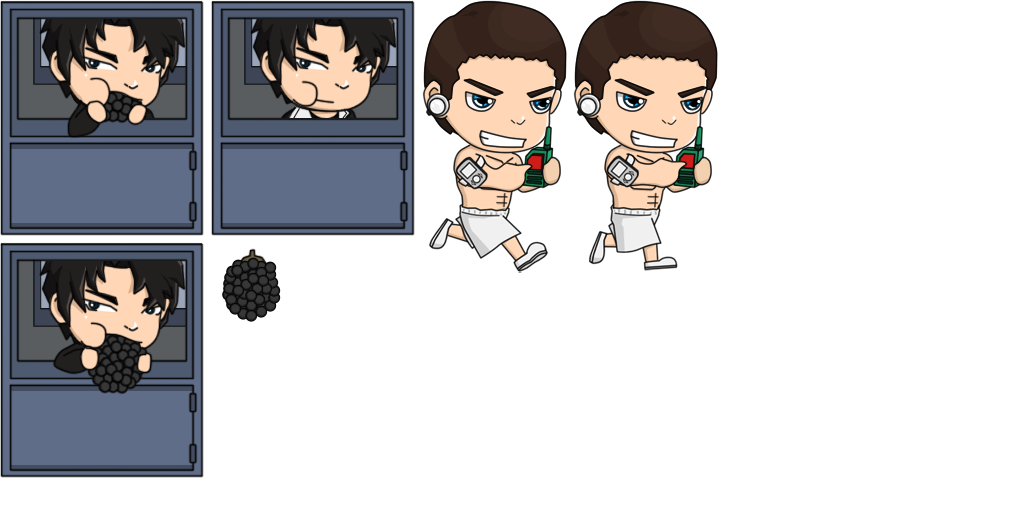
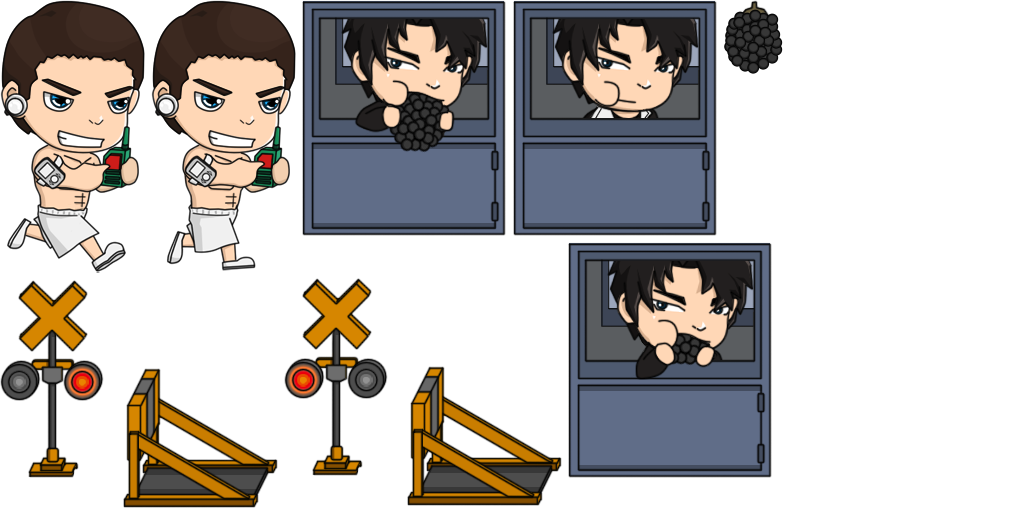
level 11: added bumper animation

diff --git a/Clay/Classes/Game/PlayerActions/PlayerActionPunch.m b/Clay/Classes/Game/PlayerActions/PlayerActionPunch.m
@@ -1,0 +1,174 @@
+//
+//  PlayerActionPunch.m
+//  Clay
+//
+//  Created by Brian Cable on 1/26/12.
+//  Copyright (c) 2012 Xecudev, LLC. All rights reserved.
+//
+
+#import "PlayerActionPunch.h"
+
+@implementation PlayerActionPunch
+/*
+#define kPlayerActionKickMoveX 20.0f
+#define kPlayerActionKickFullDuration 0.38f;
+#define kPlayerActionKickActiveWhileDurationLessThan 0.75f
+
+@implementation PlayerActionKick
+
+-(void) initialize
+{
+    [super initialize];
+    _kick = [Projectile projectileWithBehavior:PROJECTILE_BEHAVIOR_PLAYER_KICK];
+    if ([[UIScreen mainScreen] respondsToSelector:@selector(scale)] && [[UIScreen mainScreen] scale] == 2)
+    {
+        [_kick setBoundingBox:CGRectMake(0, 0, 35, 35)];
+    }
+    else
+    {
+        [_kick setBoundingBox:CGRectMake(0, 35, 35, 35)];
+    }
+    _cooldownStart = 0.6f;
+    _cooldown = 0.0f;
+    _canTrigger = true;
+    _level = [[LevelManager shared] currentLevel];
+}
+
+-(void)startAction
+{
+    if (!_inAction && _canTrigger) {
+        _duration = kPlayerActionKickFullDuration;
+        _madeFootProjectile = false;
+        [_parent endTurbo:false];
+        [_kick reset];
+        [_parent setPlayerAnimation:PLAYER_ANIM_KICK];
+        [[Camera sharedCamera] startShiftForwardForKick];
+    }
+    [super startAction];
+}
+
+-(void)update:(float)dt
+{
+    if (_inAction) {
+        if (_duration < kPlayerActionKickActiveWhileDurationLessThan) {
+            _isActive = true;
+            [_kick setActive:YES];
+            
+            [self updateBoundingBox];
+            
+            CGPoint position = [_parent getPosition];
+            
+            if ([[GameSettings shared] usingHighResolutionGraphics])
+            {
+                position.x += 10.0f;
+                position.y -= 5.0f;
+            }
+            else
+            {
+                position.x += 10.0f;
+                position.y += 33.0f;
+                
+            }
+            [_kick setPosition:position];
+            
+            if (!_madeFootProjectile) {
+                _madeFootProjectile = true;
+                [[_parent getSpeed] startKick];
+            }
+            
+            [self testKickCollisions];
+            
+        } else {
+            [_kick setActive:NO];
+            _isActive = false;
+        }
+    }
+    [super update:dt];
+}
+
+-(void)updateBoundingBox
+{
+    int startX = 0;
+    int projWidth = 35;
+    
+    int frame = [[[_parent getSprite] getAnimation] getCurrentFrameNumber];
+    switch (frame) {
+        case 1:
+            startX = 55;
+            projWidth = 25;
+            break;
+        case 2:
+            startX = 30;
+            projWidth = 35;
+            break;
+        case 3:
+            startX = 0;
+            projWidth = 45;
+            break;
+        default:
+            projWidth = 0;
+            break;
+    }
+    
+    if ([[GameSettings shared] usingHighResolutionGraphics])
+    {
+        [_kick setBoundingBox:CGRectMake(startX, 0, projWidth, 35)];
+    }
+    else
+    {
+        [_kick setBoundingBox:CGRectMake(startX, 35, projWidth, 35)];
+    }
+    
+}
+
+-(void)testKickCollisions
+{
+    NSMutableArray *obstacles = [[[LevelManager shared] currentLevel] getActiveGameObjectList];
+    for (GameObject *object in obstacles) {
+        if([object getCurrentCollisionBehavior] == COLLISION_BEHAVIOR_HEN_STATIC)
+        {
+            if([_level testCollisionWithGameObject:object Source:_kick])
+            {
+                [object special_kickHen];
+                [self setKilledEnemy:YES];
+            }
+        }
+    }
+}
+
+-(void)cancelAction
+{
+    [_parent setPlayerAnimation:PLAYER_ANIM_RUNNING];
+    [_kick disable];
+    [super cancelAction];
+    [Camera sharedCamera].isShiftForwardForKickAction = false;
+}
+
+-(void)endAction
+{
+    [_parent pushAfterAnimation:kPlayerActionKickMoveX];
+    [_kick disable];
+    [super endAction];
+    [Camera sharedCamera].isShiftForwardForKickAction = false;
+}
+
+-(NSMutableArray*)getProjectiles
+{
+    NSMutableArray *array = [[NSMutableArray alloc] initWithObjects:_kick, nil];
+    return array;
+}
+
+-(bool)shouldTriggerPlayerHurtCollision
+{
+    return true;
+}
+
+
+-(void)dealloc
+{
+    [_kick release];
+    [super dealloc];
+}
+
+
+@end

diff --git a/Clay/Classes/Game/PlayerActions/PlayerActionPunch.h b/Clay/Classes/Game/PlayerActions/PlayerActionPunch.h
@@ -1,0 +1,26 @@
+//
+//  PlayerActionPunch.h
+//  Clay
+//
+//  Created by Brian Cable on 1/26/12.
+//  Copyright (c) 2012 Xecudev, LLC. All rights reserved.
+//
+
+#import "PlayerAction.h"
+
+@class Projectile;
+@class Level;
+
+@interface PlayerActionPunch : PlayerAction
+{
+    Projectile *_kick;
+    bool _madeFootProjectile;
+    
+    //weak references
+    Level *_level;
+}
+
+-(void)testKickCollisions;
+-(void)updateBoundingBox;
+
+@end
